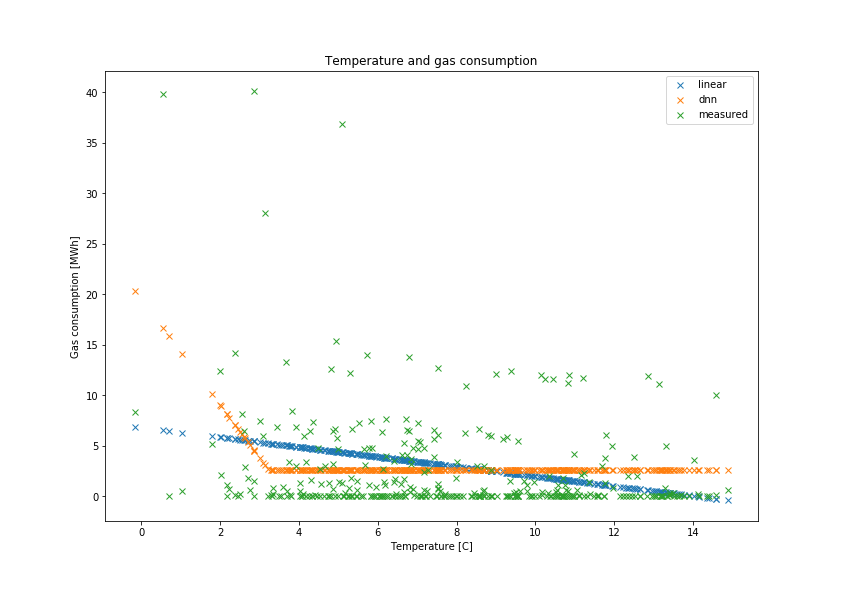
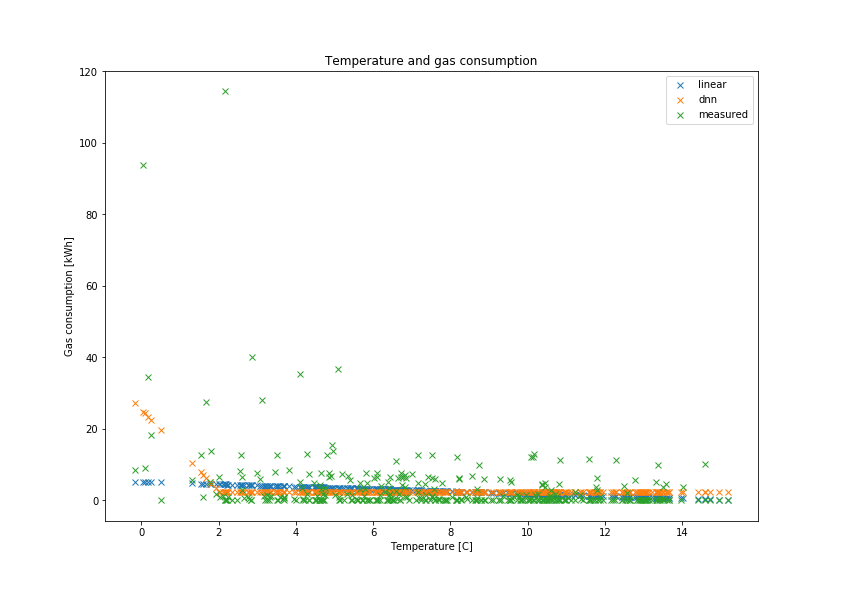
New code and pics for custom estimator.

diff --git a/predictgas_custom.py b/predictgas_custom.py
@@ -1,0 +1,137 @@
+# -*- coding: utf-8 -*-
+"""
+Created on Sun Feb 11 15:48:33 2018
+
+@author: cvrse
+"""
+
+import tensorflow as tf
+import numpy as np
+import matplotlib.pyplot as plt
+#import os
+#import pandas as pd
+#import random
+
+from pred_func_custom import *
+#import functions from pred_func.py to this file
+
+def main():
+ 
+## Data format - define headers etc. ##
+    header_in = ['Time', 'Power', 'AirTemp', 'RH', 'Pressure', 'Total', 'Diffuse', 
+           'Total', 'Diffuse', 'Temp', 'Speed',
+          'Dir', 'Rain', 'Voltage', 'Solar Total', 'Solar Diffuse', 
+          'Total','Diffuse', 'Rain', 'Dir.Avg2', 'Dir.Std2', 'WindClass2.0', 'WindClass20', 
+          'WindClass20', 'WindClass20', 'WindClass20', 'WindClass20', 'WindClass245', 'WindClass245',
+          'WindClass245', 'WindClass245', 'WindClass245', 'WindClass245', 'WindClass290', 'WindClass290',
+          'WindClass290', 'WindClass290', 'WindClass290', 'WindClass290', 'WindClass2135', 'WindClass2135',
+          'WindClass2135', 'WindClass2135', 'WindClass2135', 'WindClass2135', 'WindClass2180', 'WindClass2180',
+          'WindClass2180', 'WindClass2180', 'WindClass2180', 'WindClass2180', 'WindClass2225',
+          'WindClass2225', 'WindClass2225', 'WindClass2225', 'WindClass2225', 'WindClass2225', 
+          'WindClass2270', 'WindClass2270', 'WindClass2270', 'WindClass2270', 'WindClass2270',
+          'WindClass2270', 'WindClass2315', 'WindClass2315', 'WindClass2315', 'WindClass2315',
+          'WindClass2315', 'WindClass2315']
+    
+    header_out = ['Time', 'Pulse']
+    
+    fn_in = 'weatherdata.csv'
+    fn_out = 'gasdata.csv'
+    col_in = 'AirTemp'
+    col_out = 'Pulse'
+    split = 600
+    
+    # Parameters
+    learn_rate = 0.1
+    l1reg_rate = 0
+    l2reg_rate = 0
+    batch_size = 5
+
+## Not needed, yet... ##
+ #   training_epochs = 1000
+ #   display_step = 50
+
+    # Run the defined functions to get the data in tensor format
+    ds = read_data(fn_in, fn_out,header_in, header_out, col_in, col_out) # create data-set
+    (train_x, train_y), (test_x, test_y) = train_test_data(ds,col_in,col_out,split) #create test and train data
+    train_feats, train_labels = train_tf(train_x, train_y, batch_size) # construct the tensors for training
+    test_feats, test_labels = evaluate_tf(test_x, test_y, batch_size)
+    print(train_feats)
+    print(train_labels)
+    feature_columns = [
+            tf.feature_column.numeric_column(key='AirTemp')
+            ]
+    
+    print('---------------Feature columns-----------------')
+    print(feature_columns)
+    print('%%%%%%%%%%%%%%%%%%%%%%%%%%%%%%%%')
+    
+    
+    # Define the model
+    predictor = tf.estimator.Estimator(
+            model_fn=my_dnnmodel,
+            config=tf.estimator.RunConfig(model_dir='./dnn_model_custom/', save_summary_steps=100),
+            params={
+                'feature_cols': feature_columns,
+                'hidden_units': [80,80],
+                'learn_rate': learn_rate,
+                'l1reg_rate': l1reg_rate,
+                'l2reg_rate': l2reg_rate,
+                'n_out': 1 #output amounts
+                })    
+    
+    # Train the model
+    predictor.train(
+            input_fn=lambda:train_tf(train_x,train_y,batch_size)
+            )
+    
+    # Evaluate the model
+    eval_result = predictor.evaluate(
+            input_fn=lambda:evaluate_tf(test_x,test_y,batch_size)
+            )
+
+    
+    # Evaluate the models - print the outcomes
+    print('--------%%%%%%%%%%%%%%%%%---------')
+    print('--------Model evaluation results---------') 
+    print(eval_result)
+    
+    # Make predictions
+    print('------%%%%%-------')
+    print('---Evaluations as predictions----')
+    predictions = predictor.predict(input_fn = lambda:evaluate_tf(test_x, batch_size=batch_size))
+    
+    print(predictions)
+    
+    preds_arr = []
+    pred_gas_arr = []
+    for pred_dict in zip(predictions):
+        preds_arr = np.append(preds_arr,pred_dict[0]['Abs'])
+        pred_gas_arr = np.append(pred_gas_arr,pred_dict[0]['Act_pred'])
+   
+    # Print arrays for checks
+    #print(preds_arr)
+    #print(pred_gas_arr)
+    
+    print('%%%%%%%%%----Plot Predictions----%%%%%%')
+    plt.figure(figsize=(11.69,8.27))
+    plot_dnn = plt.plot(test_x['AirTemp'], pred_gas_arr, 'x', label="dnn") 
+    plot_meas = plt.plot(test_x['AirTemp'], test_y,'x', label="measured")
+    plt.legend()
+    plt.xlabel("Temperature [C]")
+    plt.ylabel("Gas consumption [kWh]")
+    plt.title("Temperature and gas consumption")
+    plt.savefig("predictions")
+    print('--------%%%%%%%%%%%%%%%%%---------')
+
+    return []  
+    
+    
+        # Bucketized column, maybe later...
+        #feature_columns = tf.feature_column.bucketized_column(
+        #source_column = feature_columns,
+        #boundaries = [0, 5, 10, 15, 20, 25, 30])   
+
+
+main()
+
+    

diff --git a/pred_func_custom.py b/pred_func_custom.py
@@ -19,16 +19,20 @@ def my_dnnmodel(features,labels,mode,params):
         https://www.tensorflow.org/versions/r0.12/api_docs/python/nn/activation_functions_
     """
     for units in params['hidden_units']:
-        net = tf.layers.dense(net,units=units,activation=tf.nn.relu)
+        net = tf.layers.dense(net,units=units,activation=tf.nn.selu) 
+        # change the activation to see what happens for example: relu6, crelu, selu, softplus or dropout (random)
     
     ''' 
     And the output layer - as logits final form will be calculated with some 
     activation operator i.e. tf.nn...
     '''
     preds = tf.layers.dense(net,params['n_out'],activation=None)
-    
+
     # Compute predictions
-    pred_gas = tf.nn.relu(preds)
+    pred_gas = tf.nn.selu(preds)
+    #pred_gas = preds
+    
+    #print(pred_gas)
     if mode == tf.estimator.ModeKeys.PREDICT:
         predictions = {
                 'Preds': preds,  # Predictions from the network 
@@ -36,9 +40,23 @@ def my_dnnmodel(features,labels,mode,params):
                 'Act_pred': pred_gas # With Relu-activation
                 }
         return tf.estimator.EstimatorSpec(mode, predictions=predictions)
+    print('%%%%%-labels')
+    print(labels)
+    print('%%%%%-predictions')
+    print(preds)
+    print(pred_gas)
     
+    #print('FFFFF')
+    #print(tf.rank(preds))
+    #print(tf.shape(preds))
+    
+    # Reshape for evaluation and make 64 point floats
+    preds = tf.reshape(preds,shape=(-1,))
+    preds = tf.cast(preds,tf.float64)
+    pred_gas = tf.cast(pred_gas,tf.float64)
+    #print(preds)
     # Computation of loss - using mean squared error
-    loss = tf.losses.mean_squared_error(labels=labels, predictions=pred_gas)
+    loss = tf.losses.mean_squared_error(labels=labels, predictions=preds)
     
     # Compute evaluation metric
     meanrelerror = tf.metrics.mean_relative_error(labels=labels, 
@@ -59,9 +77,7 @@ def my_dnnmodel(features,labels,mode,params):
     assert mode == tf.estimator.ModeKeys.TRAIN
         # Optimizer for training
     optimizer = tf.train.AdagradOptimizer(
-                learning_rate=params['learn_rate'],
-                l1_regularization_strength=params['l1reg_rate'],
-                l2_regularization_strength=params['l2reg_rate']
+                learning_rate=params['learn_rate']
                 )
     
     train_op = optimizer.minimize(loss, global_step=tf.train.get_global_step())
@@ -110,12 +126,17 @@ def train_test_data(ds,col_in,col_out,split):
 # Input function for training
 def train_tf(features, labels, batch_size):    
     # dict converts train_x into dictionary
-    dataset = tf.data.Dataset.from_tensor_slices((dict(features), labels))
-    #print(dataset)
+    dataset = tf.data.Dataset.from_tensor_slices((dict(features),labels))
+   # print('%%%%%%%%%%%%%%%%%%%%%%')
+   # print(dataset)
     dataset = dataset.shuffle(1000).repeat(count=100).batch(batch_size)
     
     features_result, labels_result = dataset.make_one_shot_iterator().get_next()
     
+    #print('%%%%%%%%%%%%%%%%%%%%%%')
+    #print(features_result)
+    #print('%%%%%%%%%%%%%%%%%%%%%%')
+    #print(labels_result)
     return features_result, labels_result
 
 

diff --git a/predictgas.py b/predictgas.py
@@ -37,7 +37,7 @@ def main():
     split = 360
     
     # Parameters - try changing these and see what happens
-    learning_rate = 0.1
+    learning_rate = 0.3
     batch_size = 5
     
     # Determine if linear or dnn models are trained 0=no training, 1=training
@@ -74,8 +74,8 @@ def main():
         hidden_units=[3,3],
         optimizer=tf.train.ProximalAdagradOptimizer(
                 learning_rate=learning_rate, 
-                l1_regularization_strength=1.0,
-                l2_regularization_strength=0.1
+                l1_regularization_strength=0.00,
+                l2_regularization_strength=0.00
             ))
     
     """"Note: the model data is pushed to folders linear_model and dnn_model."""
@@ -148,7 +148,7 @@ def main():
     plot_meas = plt.plot(predict_x['AirTemp'], test_y,'x', label="measured")
     plt.legend()
     plt.xlabel("Temperature [C]")
-    plt.ylabel("Gas consumption [MWh]")
+    plt.ylabel("Gas consumption [kWh]")
     plt.title("Temperature and gas consumption")
     plt.savefig("predictions")
     print('--------%%%%%%%%%%%%%%%%%---------')    

diff --git a/start_tb.py b/start_tb.py
@@ -8,7 +8,7 @@ def launchTensorBoard(tensorBoardPath):
     os.system('tensorboard --logdir=' + tensorBoardPath)
     return
 
-tbpath = r"Directory\to\your\model\folder" #Insert your path to your model folder
+tbpath = r"C:\Users\cvrse\Desktop\dnn_model" #Insert your path to your model folder
 
 import threading
 t = threading.Thread(target=launchTensorBoard(tbpath), args=([]))
